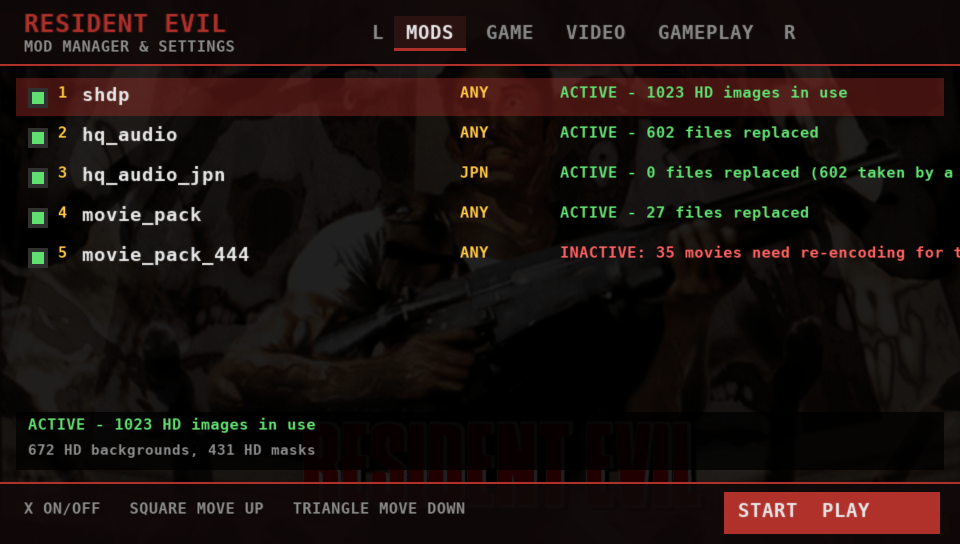
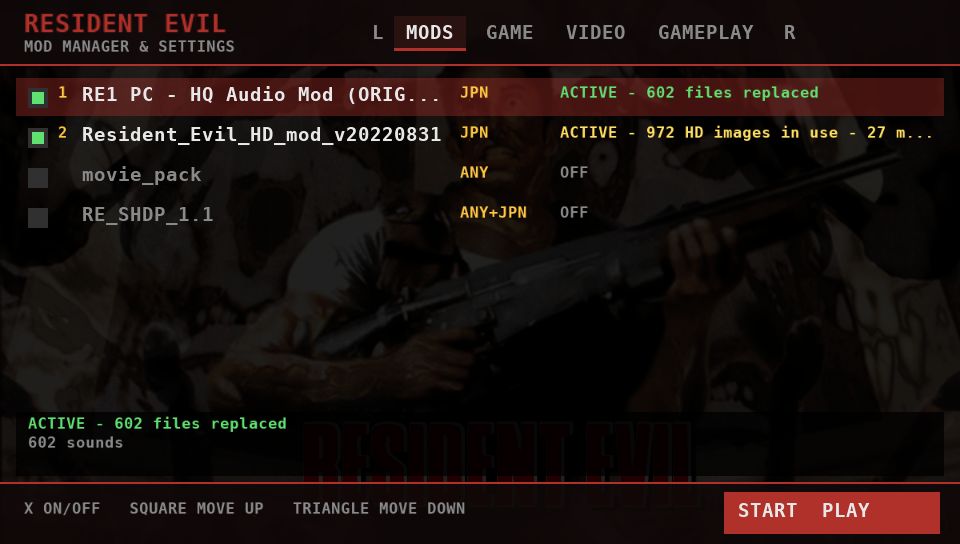
docs: optimize for vita, new screenshots

diff --git a/docs/MODS.md b/docs/MODS.md
@@ -34,10 +34,10 @@ files and the Japanese ones alike.
 
 | Mod | Works | How to install |
 |---|---|---|
-| **Seamless HD Project 1.1** (MoArtis, Kayael, Doze_D, FrankWesker) | Backgrounds and masks: yes (972 of its 1103 images match a room camera; tested in Vita3K). Movies: 1280x946, untested at that size on hardware; run them through `convert_movies` to get 720-line copies. The room files in `Mod_SHDP/STAGE*` are plain `.rdt` replacements and should load, untested. Character, item and UI textures (`skin`, `skin2`, `misc`) and the `TEXT/*.xml` patches: no. | Copy `hires/` (and `bio1dc/` for DC mode) to `mods/SHDP/`. Optionally `Mod_SHDP/STAGE2` and `STAGE7` to `mods/SHDP/stage2` and `stage7`, and the `convert_movies` output of the pack (see [Movie packs](#movie-packs)). |
-| **Resident Evil HD mod** (TeamX, 2022-08-31) | Backgrounds and masks: yes (same names as SHDP, 972 matched). `jpn/movie/*.avi` (H.264 inside AVI): needs `convert_movies`. `skin`, `skin2`, `misc`: no. | Copy `hires/` to `mods/TeamX_HD/`. The `.asi`/`.dll` files are for the PC and aren't needed. |
+| **Seamless HD Project 1.1** (MoArtis, Kayael, Doze_D, FrankWesker) | Backgrounds and masks: yes (972 of its 1103 images match a room camera; tested in Vita3K). Movies: 1280x946 H.264 4:2:0, which the port plays as they are (that size is untested on hardware). The room files in `Mod_SHDP/STAGE*` are plain `.rdt` replacements and should load, untested. Character, item and UI textures (`skin`, `skin2`, `misc`) and the `TEXT/*.xml` patches: no. | Copy `hires/` (and `bio1dc/` for DC mode) to `mods/SHDP/`, optionally `movie/` too, and `Mod_SHDP/STAGE2` and `STAGE7` to `mods/SHDP/stage2` and `stage7`. Then [OPTIMIZE](#optimize-for-vita) it. |
+| **Resident Evil HD mod** (TeamX, 2022-08-31) | Backgrounds and masks: yes (same names as SHDP, 972 matched). `jpn/movie/*.avi` (H.264 inside AVI): OPTIMIZE re-packs them into MP4 in seconds. `skin`, `skin2`, `misc`: no. | Copy the whole folder to `mods/TeamX_HD/` and OPTIMIZE it; that also deletes the PC-only `.asi`/`.dll` files. |
 | **RE1 PC HQ Audio Mod** | Yes, all 602 music, sound and voice files (tested in Vita3K). | Copy the folder as it is (it ships as `JPN/Sound`, `JPN/Voice`) to `mods/HQ_Audio/`, or put `sound/` and `voice/` straight in it. |
-| **PS1 movie packs** (`.mp4` sets of the FMVs) | Yes if they are 4:2:0. Packs exported as High 4:4:4 are listed as INACTIVE in the manager until converted. | `mods/<name>/movie/*.mp4`, through `convert_movies` first. |
+| **PS1 movie packs** (`.mp4` sets of the FMVs) | Yes if they are 4:2:0. Packs exported as High 4:4:4 are listed as INACTIVE in the manager until converted. | `mods/<name>/movie/*.mp4`, then OPTIMIZE (re-encodes 4:4:4 ones on the console, slowly). |
 | **REuncap** | Not needed: the port has its own 60 FPS mode built on the same idea (`[Vita] FrameRate=60`, FRAME RATE in the settings). | Nothing to install. |
 | **Classic REbirth** | Not needed and not loadable: it patches the PC executable, and this port already is a rebuilt executable. | Nothing to install. |
 
@@ -61,17 +61,45 @@ It opens before the game starts, three ways:
 Pages, flipped with L and R:
 
 * **MODS:** every folder in `mods/`, what it carries and whether it's doing anything. X turns a
-  mod on or off, Square and Triangle move it up and down the load order. A mod that does nothing
-  for the selected game version (a JPN-only folder while playing USA, a movie pack the Vita can't
-  decode) says so in red.
+  mod on or off, Square and Triangle move it up and down the load order, SELECT optimizes it (see
+  below). A mod that does nothing for the selected game version (a JPN-only folder while playing
+  USA, a movie pack the Vita can't decode) says so in red.
 * **GAME:** game version (USA, or JPN when `JPN/` is there) and content (original or Director's
   Cut when `DC/` is there).
-* **VIDEO:** aspect, filter, gamma, antialiasing, frame rate, HD textures on/off, HD texture size
-  and HD preload.
+* **VIDEO:** aspect, filter, gamma, antialiasing, frame rate, HD textures on/off and HD texture
+  size.
 * **GAMEPLAY:** auto run, weapon swap, skip doors, status HUD, weapon HUD, HUD auto hide.
 
 START saves everything to `config.ini` and starts the game. Changing antialiasing restarts the app,
 since it can only be set at boot.
+
+## Optimize for Vita
+
+SELECT on a mod in the MODS page converts it, on the console, into the form the Vita loads
+fastest. It is **destructive**: the mod's own files are overwritten and can't be brought back, so
+keep the download on a PC if you may want them. The mod manager first lists exactly what it will
+do and shows the warning; hold X for three seconds to start, CIRCLE to cancel.
+
+| Part | What happens |
+|---|---|
+| HD backgrounds (`hires/bgd/*.webp`) | Decoded, scaled to HD TEXTURE SIZE, saved as `HASH.jpg` (JPEG quality 92). The `.webp` is deleted. |
+| HD masks (`hires/mask/*.webp`) | Same, saved as `HASH.rhd` (zlib'd RGBA: masks need their transparency). |
+| `bio1dc/` | Converted like `hires/` when a `DC/` folder is installed, deleted when it isn't. |
+| Movies the Vita can play | Left alone. |
+| H.264 4:2:0 in AVI/MKV (TeamX's Japanese movies) | Video copied into an `.mp4` unchanged (its display order rebuilt from the H.264 headers), audio re-encoded to AAC. Seconds per movie. |
+| H.264 4:4:4 / 10-bit, or other codecs | Decoded in software and re-encoded to MPEG-4 + MP3 in an `.avi`, at most 640x480 so it plays in real time. Slow: not measured on hardware yet, likely several times the movie's length. Needs a build with FFmpeg's H.264 decoder (the release has it). |
+| HEVC | Can't be decoded on the Vita; left alone and listed. |
+| `hires/skin`, `skin2`, `misc`, `.dll`, `.asi` | Deleted: the port never reads them. |
+
+Pictures are converted on two cores, up to three movies at once, and the CPU is clocked to
+444 MHz while it runs. Each file is replaced only when its new version is complete, so CIRCLE (or
+a crash, or the battery) leaves a mod that still works; running OPTIMIZE again does the rest. When
+everything is done it writes `vita_optimized.txt` in the mod, and the manager shows the mod as
+"optimized for Vita".
+
+In testing, Seamless HD's backgrounds and masks went from 334 MB of WebP to about 205 MB. The
+pictures are fixed at the HD TEXTURE SIZE they were made with; to change it later you need the
+original pack again.
 
 ## HD packs
 
@@ -80,17 +108,12 @@ the Vita doesn't have. `vita/hd_map.txt` (shipped inside the VPK) maps each room
 name instead: 591 backgrounds and 403 mask sheets. It was built by `tools/vita/hd_map.py`, by
 matching pictures against the GOG release and reading the pack's `hires/cache/ROOM*.dat` order.
 
-* Pictures are decoded on a background thread when you enter a room. Without HD preload, a camera
-  cut can show the original background for the frames the HD one is still decoding.
-* **HD PRELOAD** / `[Vita] HdPreload=1` stops that. When you press START in the mod manager (and
-  on any later start while something is missing), every picture of the active packs is decoded once
-  into `ux0:data/RE1/hdcache/<size>/`, already scaled, with a progress bar. CIRCLE stops it and
-  starts the game; the rest is done next time. In game a picture is then a quick read instead of a
-  WebP decode, and the game waits for it instead of showing the original first. For Seamless HD at
-  720 lines it takes about 800 MB and a few minutes. Changing HD TEXTURE SIZE builds a new cache
-  and deletes the old one; deleting `hdcache/` by hand is always safe.
+* Pictures are decoded on a background thread when you enter a room. From an optimized mod they
+  load in a few frames and the game waits for them, so the original background never shows
+  first. From a plain pack the WebP decode can take half a second, so a camera cut can show the
+  original background for a moment before the HD one appears.
 * `HD TEXTURE SIZE` / `[Vita] HdMaxHeight` (480, 720 or 960) is the height pictures are scaled
-  down to when decoded. 720 is the default; 960 is sharper and slower to load.
+  down to when decoded or optimized. 720 is the default; 960 is sharper and slower to load.
 * Pictures larger than 4096 px on a side are skipped, so an 8K pack won't run the Vita out of
   memory.
 * `HD TEXTURES` / `[Vita] HdTextures=0` turns the packs off without removing them.
@@ -102,11 +125,12 @@ Model, item and menu textures (`skin`, `skin2`, `misc`) aren't mapped yet.
 The Vita plays `.mp4` movies with its hardware decoder, which only takes H.264 4:2:0 (Baseline,
 Main or High), and `.avi` movies with a small decoder that has Cinepak and MPEG-4 but no H.264.
 Packs exported as High 4:4:4, 10-bit or HEVC, or H.264 inside AVI, are skipped (the manager says
-how many) and the original movie plays instead. Movies taller than 720 lines are played, but
-1280x960 decoding plus the colour conversion is a lot for the Vita and isn't tested on hardware,
-so the converter scales them down too. The Vita can't re-encode
-video itself, so this is done once on a PC.
+how many) and the original movie plays instead. [OPTIMIZE](#optimize-for-vita) converts them on the
+console.
 
+### Converting on a PC instead
+
+Re-encoding a whole 4:4:4 pack on the Vita takes a long time. A PC does the same job in minutes.
 `tools/vita/convert_movies.py` does it automatically. Point it at a downloaded pack, a mod folder,
 or a whole `mods` folder:
 

diff --git a/README.md b/README.md
@@ -111,6 +111,26 @@ settings panel.
 
 START saves it all to `config.ini` and starts the game.
 
+### Optimize for Vita
+
+Press **SELECT** on a mod to optimize it on the console, no PC needed. The mod manager first shows
+what it will do and a warning: it **overwrites the mod's own files and can't be undone**, and a big
+pack with movies can take an hour or more. Hold X for three seconds to start.
+
+* HD backgrounds become JPEGs and masks a compact format, already scaled to HD TEXTURE SIZE. They
+  load several times faster than the WebP originals, so the game waits for the HD picture instead
+  of showing the original background first: no more pop-in. The originals are deleted as each one
+  is converted, so the mod doesn't take extra space (Seamless HD's pictures went from 334 MB to
+  about 200 MB in testing).
+* Movies the Vita can't play are converted: H.264 inside AVI (TeamX) is re-packed into MP4 in
+  seconds, and High 4:4:4 packs are re-encoded to MPEG-4 at 640x480, which is slow.
+* Files the port never uses are deleted: `hires/skin`, `skin2`, `misc`, `.dll` and `.asi` files,
+  and `bio1dc/` when no `DC/` folder is installed.
+
+CIRCLE stops it; whatever is done stays converted and running OPTIMIZE again finishes the rest.
+Because the size is fixed when you optimize, keep a copy of the pack on a PC if you may want a
+different HD TEXTURE SIZE later.
+
 ## Mods
 
 A mod is a folder in `ux0:data/RE1/mods/` holding a copy of the parts of the game tree it changes,
@@ -130,7 +150,7 @@ The full list of tested mods and how to install each one is in [docs/MODS.md](do
 ### HD packs
 
 <p align="center">
-  <img src="screenshots/hdpack.png" alt="Seamless HD Project" width="700"/>
+  <img src="screenshots/hdpack.png" alt="HD backgrounds" width="700"/>
 </p>
 
 The Classic REbirth background packs, the **Seamless HD Project** and **TeamX's HD mod**, work:
@@ -138,25 +158,23 @@ copy the pack's `hires/` folder into a mod folder (`mods/SHDP/hires/bgd`, `mods/
 Backgrounds and the masks over them are swapped in for 591 room cameras, scaled to `HdMaxHeight`
 (480, 720 or 960, 720 by default). The packs' character and item textures aren't supported yet.
 
-Turn on **HD PRELOAD** in the mod manager so backgrounds never pop in: the first START after a
-pack is added prepares every picture once (a few minutes, about 800 MB for Seamless HD at 720),
-and from then on each camera's HD background is there the moment it appears. Without it, pictures
-are decoded as you play and a camera cut can show the original background for a moment.
+A pack works as you copy it, but its WebP pictures are slow to decode on the Vita and a camera cut
+can show the original background for a moment. [Optimize](#optimize-for-vita) the mod once to fix
+that.
 
 ### Movies
 
 Movies can be `.mp4` (H.264 with AAC audio): `mods/Movies/movie/capcom.mp4`. The Vita's decoder
-only plays 4:2:0 H.264, so many packs (High 4:4:4, H.264 inside AVI) need converting once on a
-PC, and big 1280x960 ones are better scaled to 720; the mod manager tells you when a pack has movies it can't play.
-[`tools/vita/convert_movies.py`](tools/vita/convert_movies.py) does it automatically: give it the
-downloaded pack (or drag the folder onto `convert_movies.bat` on Windows) and it re-encodes only
-the movies that need it and writes a ready mod folder to copy into `mods/`.
+only plays 4:2:0 H.264, so many packs (High 4:4:4, H.264 inside AVI) don't play as they come; the
+mod manager says when a pack has movies it can't play, and [OPTIMIZE](#optimize-for-vita) converts
+them on the console.
 
-```bash
-python3 tools/vita/convert_movies.py path/to/pack
-```
+If you'd rather do it on a PC (much faster for big packs),
+[`tools/vita/convert_movies.py`](tools/vita/convert_movies.py) does the same conversion with
+`ffmpeg` and writes a ready mod folder: `python3 tools/vita/convert_movies.py path/to/pack`, or drag
+the folder onto `convert_movies.bat` on Windows.
 
-It needs `ffmpeg`. Download links for every tested mod are in [docs/MODS.md](docs/MODS.md).
+Download links for every tested mod are in [docs/MODS.md](docs/MODS.md).
 
 ## AI Assistance
 
@@ -177,12 +195,21 @@ implementation and debugging process remaining under human supervision.
 
 ## Building from source
 
-You need [VitaSDK](https://vitasdk.org) with vitaGL, vitaShaRK and the ffmpeg package installed
-through vdpm, and `VITASDK` set:
+You need [VitaSDK](https://vitasdk.org) with vitaGL, vitaShaRK, and the ffmpeg, libwebp,
+libjpeg-turbo and libpng packages installed through vdpm, and `VITASDK` set:
 
 ```bash
 cmake -S . -B build/vita -DCMAKE_TOOLCHAIN_FILE=$VITASDK/share/vita.toolchain.cmake -DCMAKE_BUILD_TYPE=Release
 cmake --build build/vita -j
+```
+
+For the mod manager's movie conversion of 4:4:4 packs, build FFmpeg with its H.264 decoder (the
+vdpm package has none) and point CMake at it. Without it everything else works and those packs
+are reported as not convertible.
+
+```bash
+tools/vita/build_ffmpeg.sh ../ffmpeg-vita
+cmake -S . -B build/vita -DCMAKE_TOOLCHAIN_FILE=$VITASDK/share/vita.toolchain.cmake -DCMAKE_BUILD_TYPE=Release -DRE1_FFMPEG_PREFIX=../ffmpeg-vita
 ```
 
 The VPK ends up as `build/vita/residentevil.vpk`. The LiveArea art and template (with the mod
